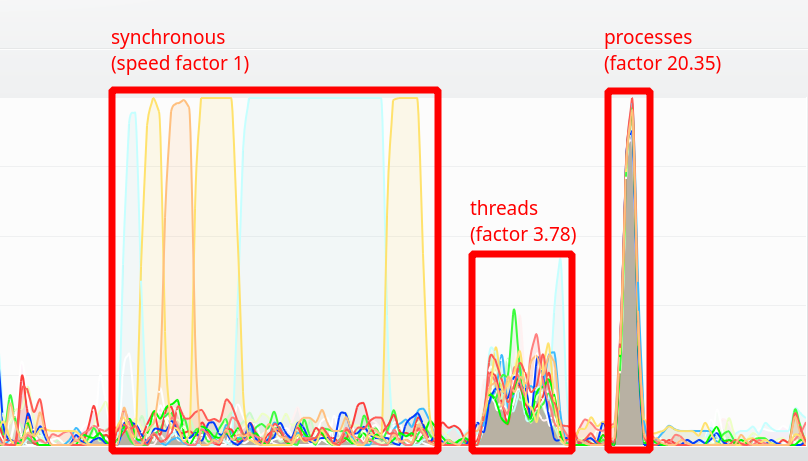
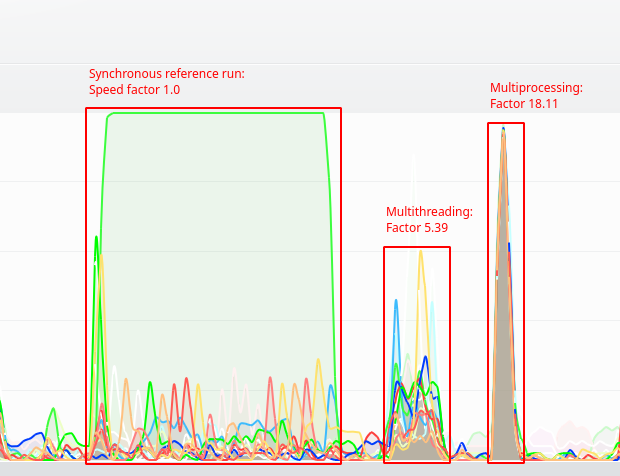
Updated rtd docu of both howtos

Changed region(s): [[0.0, 0.0607, 1.0, 1.0]]

diff --git a/doc/rtd/content/append1/bf/mt/howto.bf.mt.001.rst b/doc/rtd/content/append1/bf/mt/howto.bf.mt.001.rst
@@ -18,6 +18,6 @@ Results
 
 The howto example logs details of the three runs and in particular the speed factors of multithreading and 
 multiprocessing in comparison to the serial/synchronous execution. On a PC with an AMD Ryzen 7 CPU (8/16 cores)
-running Linux, the system monitor shows an approx. 4x speedup with multithreading and an approx. 20x speedup with multiprocessing.
+running Linux, the system monitor shows an approx. 5x speedup with multithreading and an approx. 18x speedup with multiprocessing.
 
 .. image:: images/howto.bf.mt.001/howto_bf_mt_001_parallel_algorithms.png

diff --git a/doc/rtd/content/append1/bf/mt/howto.bf.mt.002.rst b/doc/rtd/content/append1/bf/mt/howto.bf.mt.002.rst
@@ -16,7 +16,7 @@ Executable code
 Results
 -------
 
-The howto example logs details of the three runs (single task, workflow synchronously/multithreading). A short break
+The howto example logs details of the two runs (workflow synchronously/multithreading). A short break
 between the workflow runs allows a better observation of CPU load in the system monitor.
 
 .. image:: images/howto.bf.mt.002/howto_bf_mt_002_tasks_and_workflows.png
